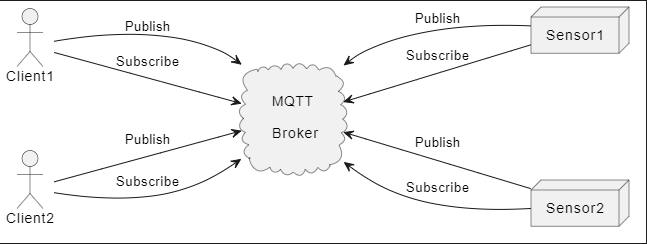
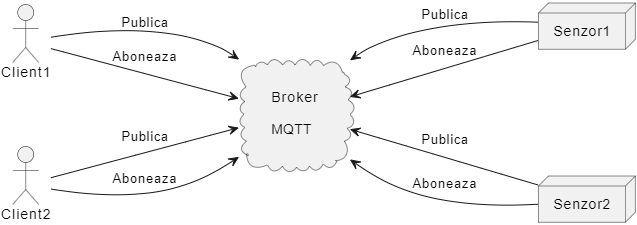
Translated figures in Romanian language where it was possible

diff --git a/templateLaTeX-Rom-2024/templateLaTeX-Rom/figs/diagrams.md b/templateLaTeX-Rom-2024/templateLaTeX-Rom/figs/diagrams.md
@@ -8,27 +8,27 @@ actor Client2
 
 Cloud Broker [
 
-    MQTT    
+    Broker    
 
-    Broker  
+    MQTT  
 
 ]
 node Senzor1 [
-    Sensor1
+    Senzor1
 ]
 node Senzor2 [
-    Sensor2
+    Senzor2
 ]
 
-Client1 ---> Broker: Publish
-Client1 ---> Broker: Subscribe
-Client2 ---> Broker: Publish
-Client2 ---> Broker: Subscribe
+Client1 ---> Broker: Publica
+Client1 ---> Broker: Aboneaza
+Client2 ---> Broker: Publica
+Client2 ---> Broker: Aboneaza
 
-Broker <--- Senzor1: Publish
-Broker <--- Senzor1: Subscribe
-Broker <--- Senzor2: Publish
-Broker <--- Senzor2: Subscribe
+Broker <--- Senzor1: Publica
+Broker <--- Senzor1: Aboneaza
+Broker <--- Senzor2: Publica
+Broker <--- Senzor2: Aboneaza
 
 @enduml
 ```
@@ -41,37 +41,38 @@ skinparam linetype polyline
 skinparam shadowing true 
 left to right direction
 actor Client
-database "Database" as db
+database "Baza de date" as db
 package "RESTful API" as rest {
     rectangle View {
         rectangle Routes [
             
-            Routes
+            Rute
 
         ]   
     }
     rectangle Resources [
         
 
-            Resource
-            Manager     
+            Manager
+                de
+            Resurse     
 
 
     ]
-    rectangle "Resources" as res
+    rectangle "Resurse" as res
     rectangle Model [
         
         Model
 
     ]
 
-    Client --> Routes : "HTTP Request"
+    Client --> Routes : "Cerere HTTP"
     Routes --> Resources
     Resources --> Model
     Resources <-- Model
     Routes <-- Resources
     Model <--> db : "CRUD"
-    Client <-- View : "HTTP Response"
+    Client <-- View : "Raspuns HTTP"
     res <-- Resources
 }
 @enduml
